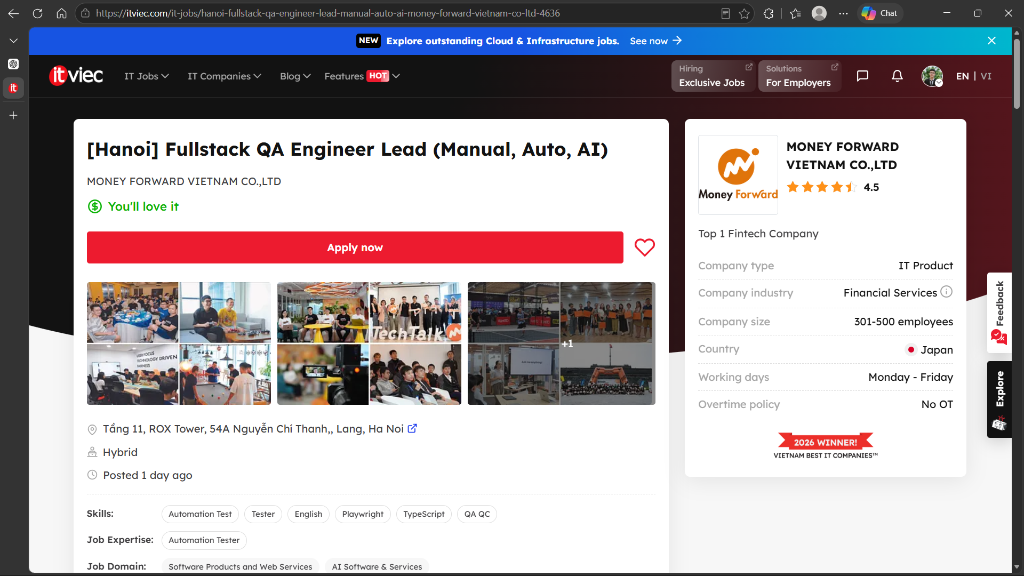
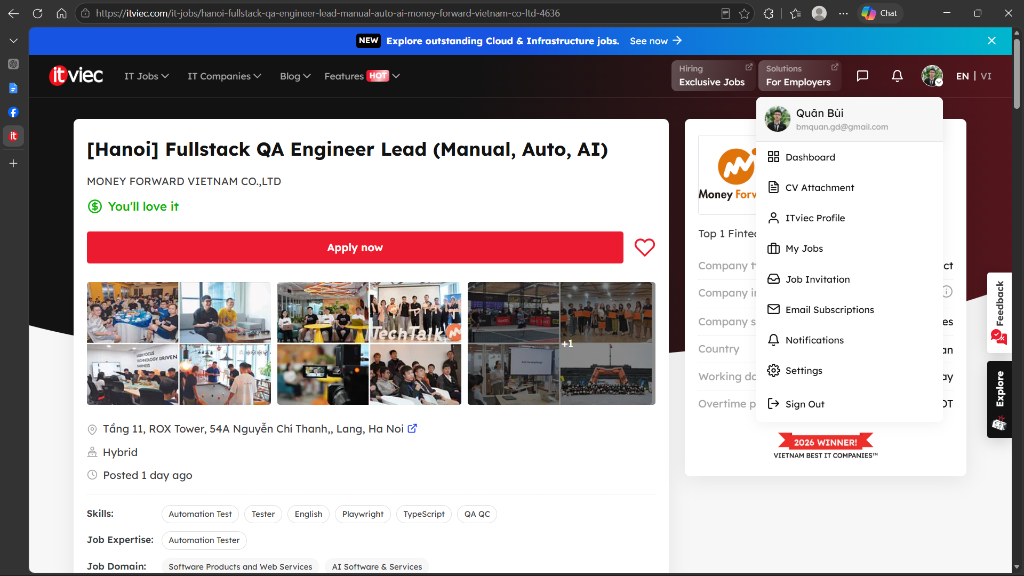
docs(r1): update screenshots 1-3 to include student name profile dropdown

diff --git a/Appendix_A_Prompt_Log.md b/Appendix_A_Prompt_Log.md
@@ -26,7 +26,8 @@ Record every AI prompt used for this assignment, including the exact wording and
 | 15 | 11:38 25/09/2026 | Antigravity (Gemini 3.8 Flash) | Okay I have read and clarify all the job you have found to me, almost jobs have AI involved in the process, and that would be a trend in the future. Now I'll give you the images evidence of the remaining post, you have to rename it, put it to the correct folder and update the main document for me okay | Confirm job review, acknowledge AI QA trends, and set instructions for handling remaining 8 screenshots |
 | 16 | 11:41 25/09/2026 | Antigravity (Gemini 3.8 Flash) | [Image submission: 5 screenshots for Postings 3 to 7] | Provide screenshot evidence for Job Postings #3 (TrustedAI), #4 (Viettel), #5 (ANDPAD), #6 (Saritasa), #7 (Saigon Tech) |
 | 17 | 11:44 25/09/2026 | Antigravity (Gemini 3.8 Flash) | [Image submission: 3 screenshots for Postings 8, 9, 10] | Provide screenshot evidence for Job Postings #8 (VBA Tech), #9 (SHB Bank), #10 (YUM! Digital) |
-| 18 | [Actual timestamp] | [Tool] | [Paste exact prompt] | [Purpose or artifact] |
+| 18 | 11:49 25/09/2026 | Antigravity (Gemini 3.8 Flash) | Please can you change the first three jobs to these images, I want the image has my name in the corner | Replace job screenshots 1–3 with updated versions showing open user profile name dropdown |
+| 19 | [Actual timestamp] | [Tool] | [Paste exact prompt] | [Purpose or artifact] |
 
 [Add a row for every additional prompt. Preserve the complete prompt text.]
 
